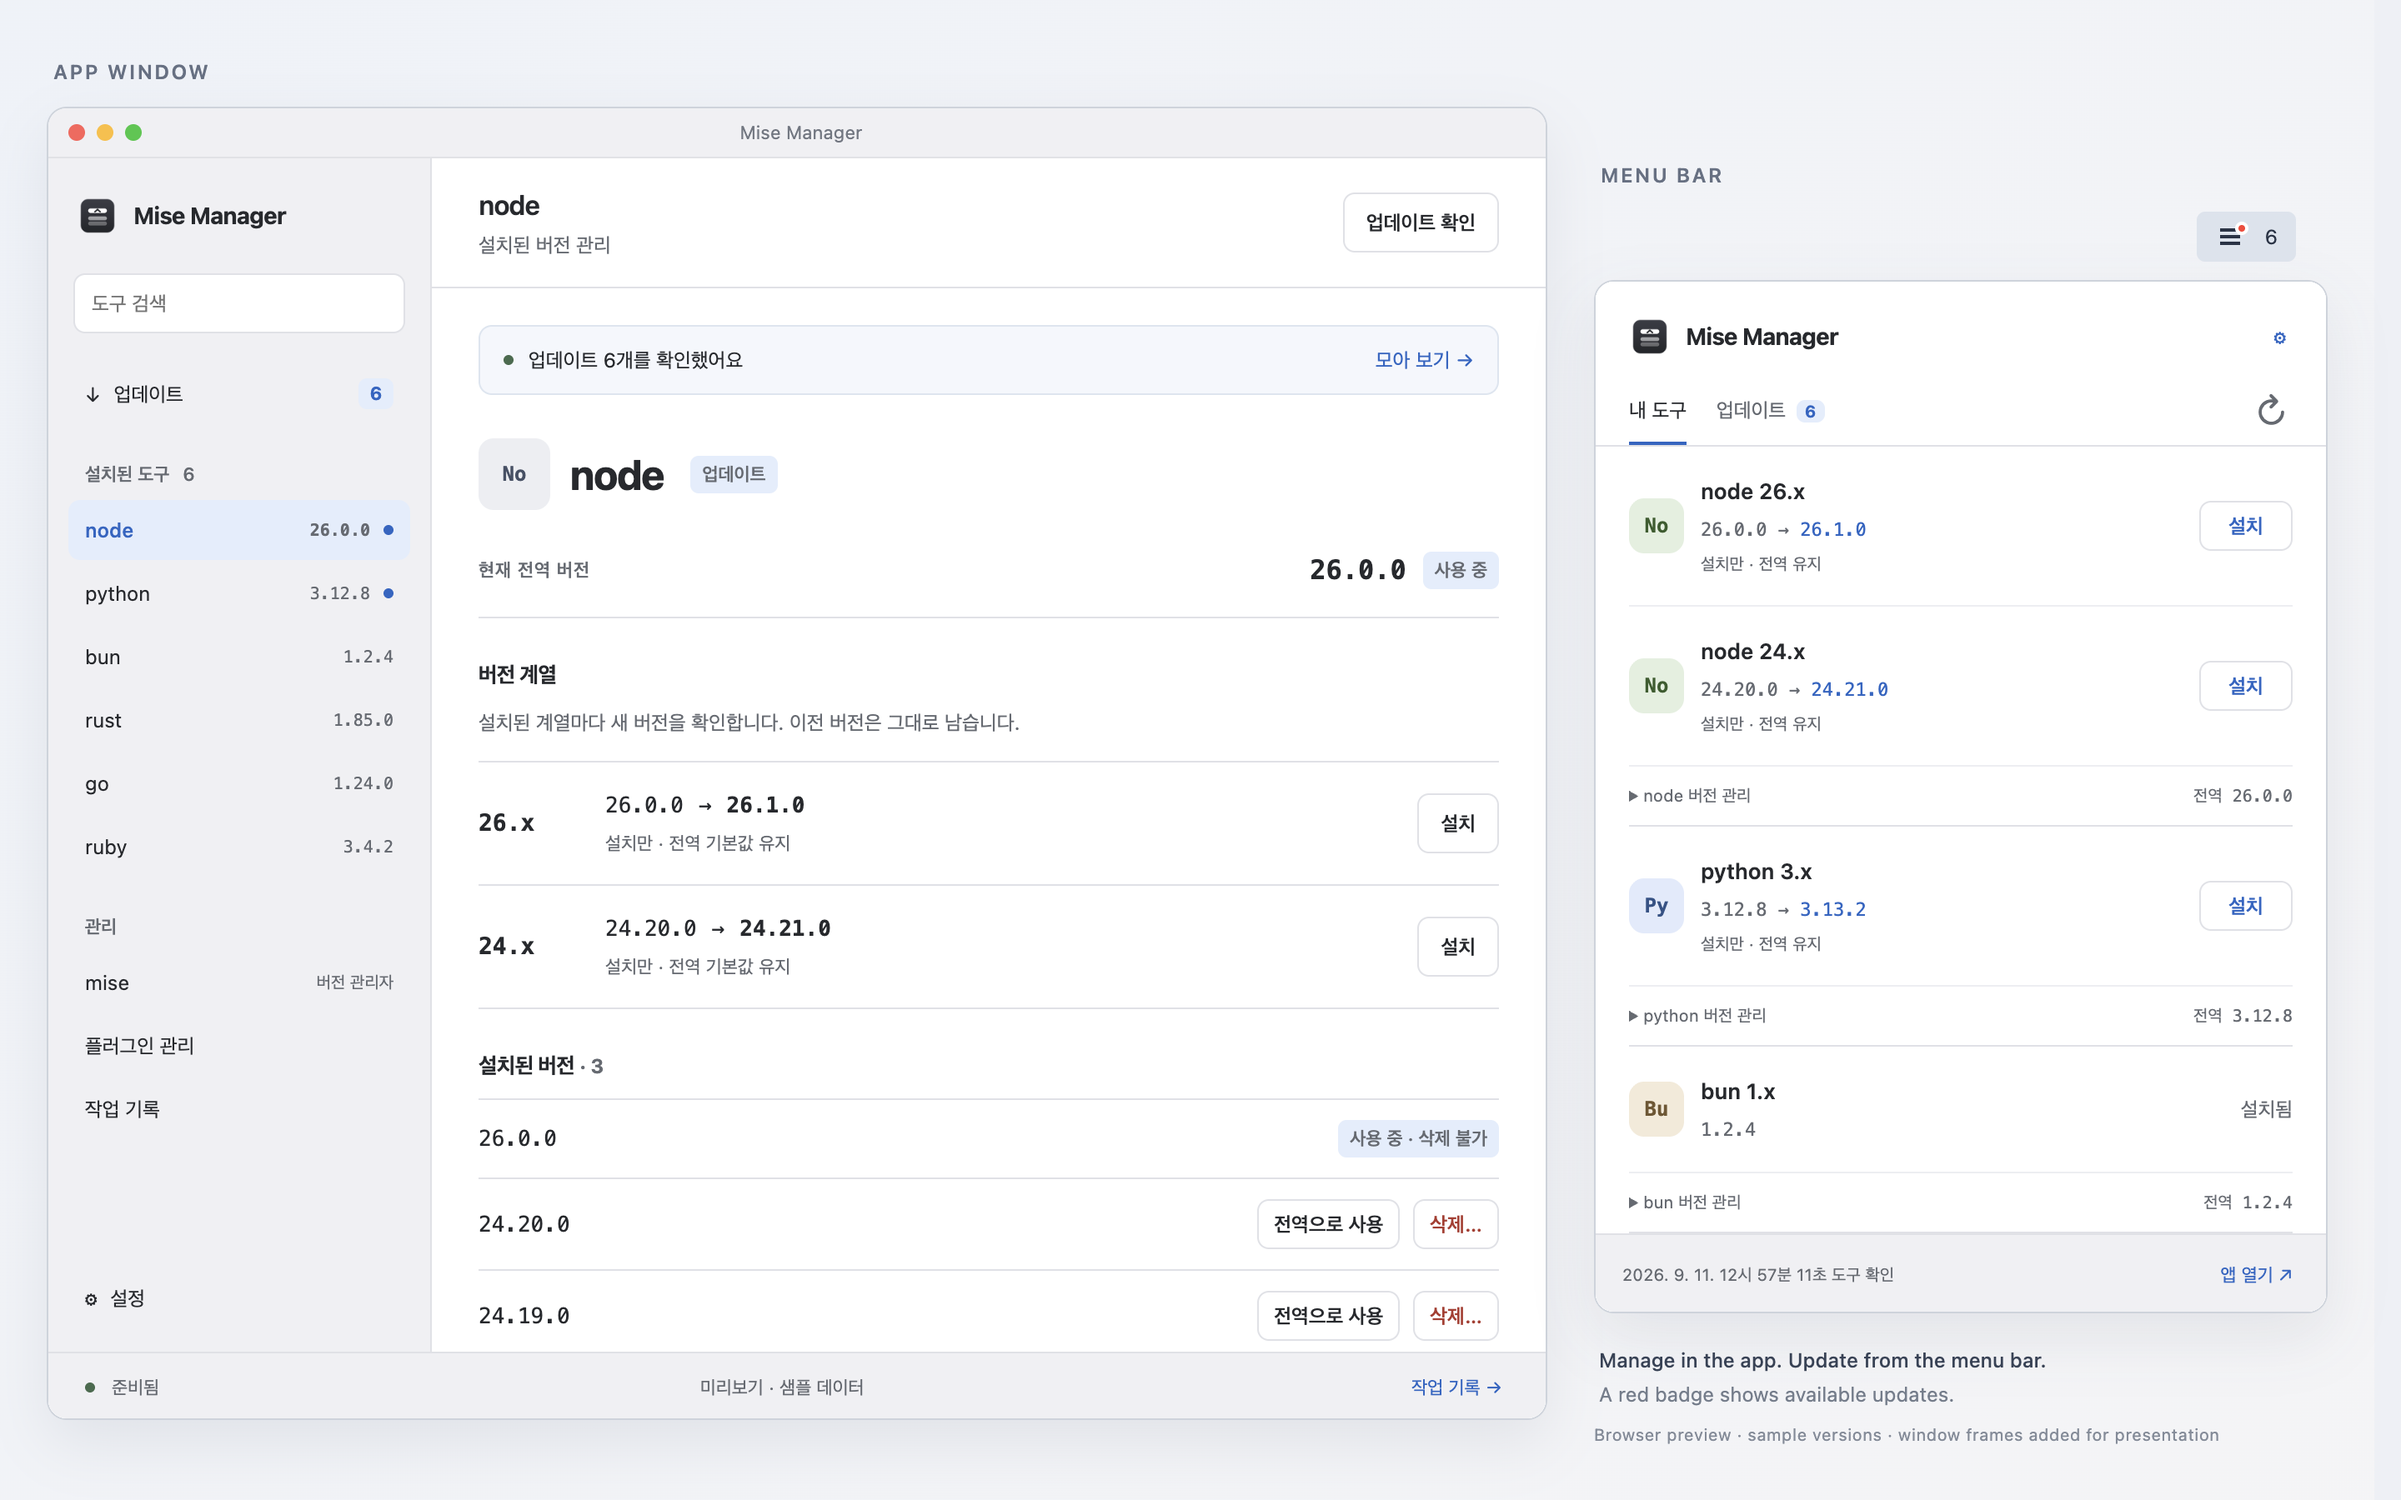
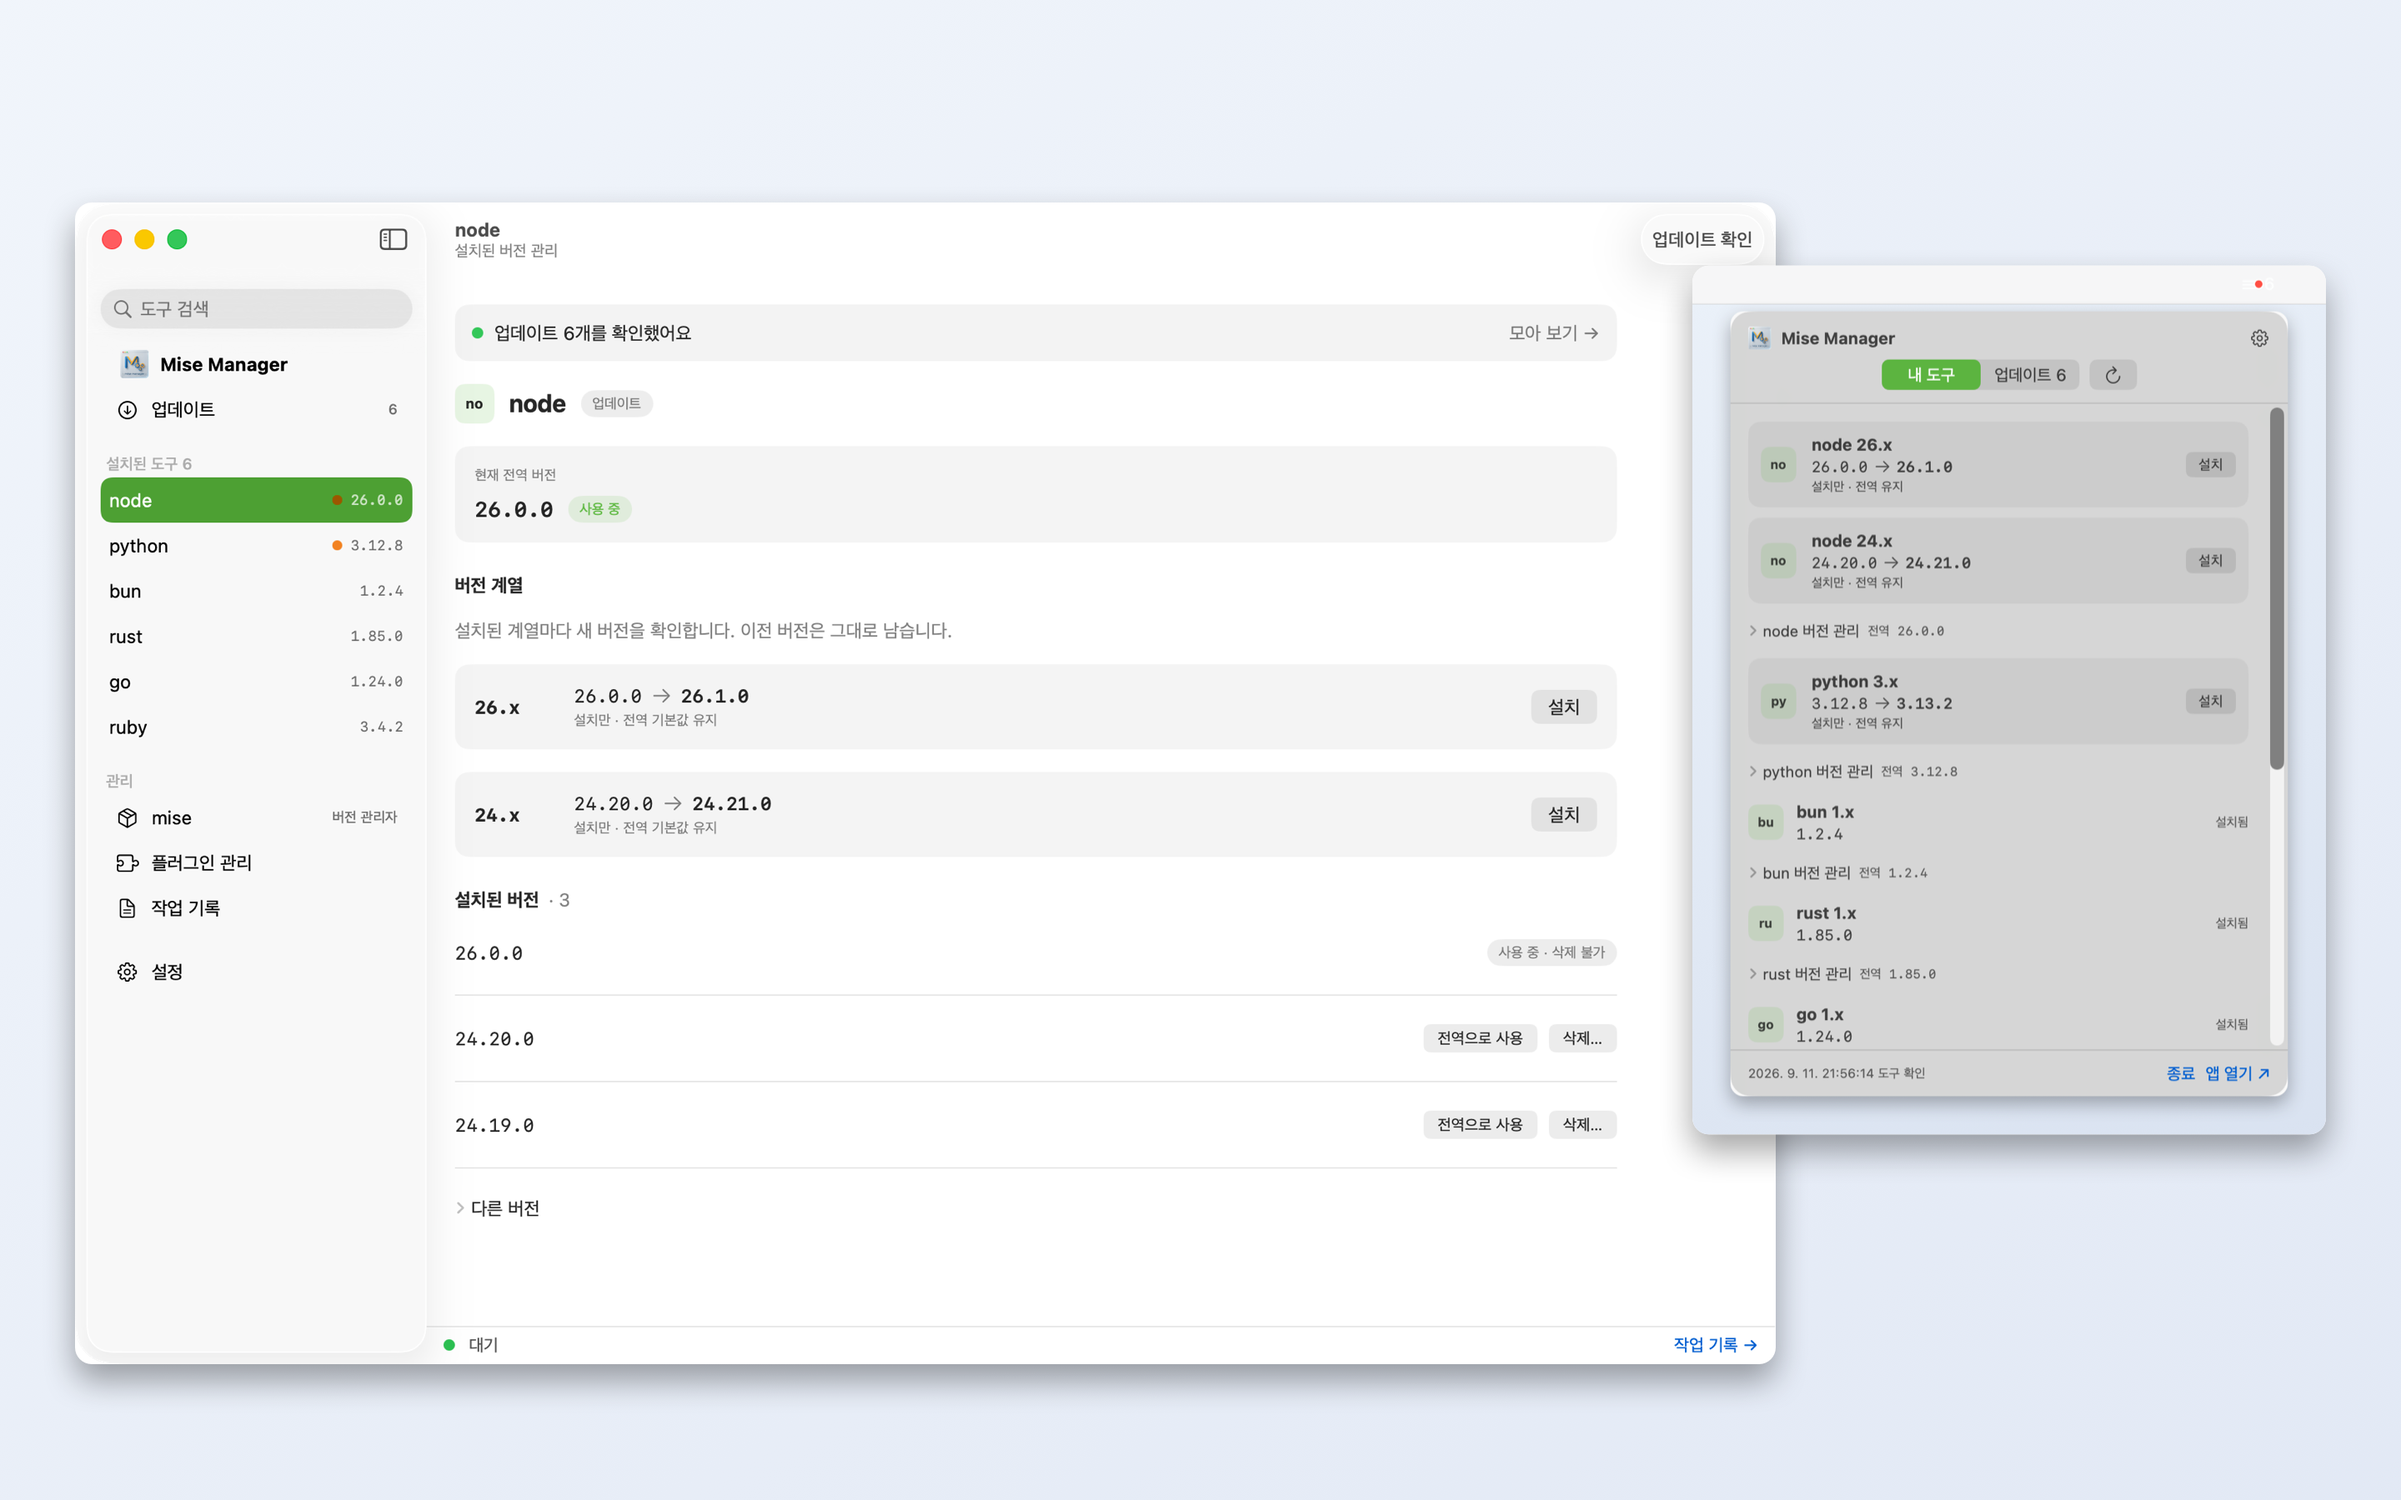
docs: screenshots of the native app; tray panel follows the theme setting
The menu-bar panel now applies the light/dark theme like the main
window. Debug hooks gain sample data, explicit panel placement and a
status-item render used to compose the README images.

diff --git a/MiseManager/App/DebugHooks.swift b/MiseManager/App/DebugHooks.swift
@@ -25,6 +25,12 @@ extension AppDelegate {
                 case "mise": state.pendingMiseUpdateConfirm = true
                 case "plugin": state.openCustomPluginDialog()
                 case "tray": state.showTray()
+                case "sample": self.loadSample()
+                case "trayMain":
+                    // Under the menu bar of the main display, near its right edge, whatever the cursor does.
+                    if let screen = NSScreen.main {
+                        self.statusItem?.show(cursor: CGPoint(x: screen.frame.maxX - 260, y: screen.frame.maxY - 5))
+                    }
                 case "close":
                     state.pendingMajorUpdate = nil; state.pendingDelete = nil
                     state.pendingMiseUpdateConfirm = false; state.closePluginUrlDialog()
@@ -36,6 +42,7 @@ extension AppDelegate {
                     case "render": self.render(state.activeTab, to: path)
                     case "trayrender": self.renderTray(to: path)
                     case "status": try? (self.statusItem?.debugDescription ?? "no controller").write(toFile: path, atomically: true, encoding: .utf8)
+                    case "statusitem": self.renderStatusItem(to: path)
                     default: self.snapshot(to: path)
                     }
                 }
@@ -53,6 +60,51 @@ extension AppDelegate {
         renderer.scale = 2
         guard let image = renderer.nsImage, let tiff = image.tiffRepresentation,
               let rep = NSBitmapImageRep(data: tiff) else { return }
+        try? rep.representation(using: .png, properties: [:])?.write(to: URL(fileURLWithPath: path))
+    }
+
+    /// Reproducible example state for README screenshots (same fixture the 0.1.x browser preview used).
+    private func loadSample() {
+        let now = AppState.nowLabel()
+        state.settings.theme = .light
+        state.miseVersion = "2026.8.12 macos-arm64"
+        state.miseLoaded = true
+        state.miseCurrentError = nil
+        state.miseLatestVersion = "v2026.8.13"
+        state.miseLatestLoaded = true
+        state.miseLatestError = nil
+        state.miseLatestCheckedAt = now
+        func row(_ name: String, _ global: String, _ installed: [String], _ byMajor: [String: String], _ same: String, _ release: String, _ overall: String?, _ checked: Int) -> PluginRow {
+            PluginRow(name: name, activeGlobalVersion: global, installedVersions: installed, latestByMajor: byMajor,
+                      sameMajorLatest: same, releaseLatest: release, overallLatest: overall, checkedVersions: checked, status: .done)
+        }
+        state.plugins = [
+            row("node", "26.0.0", ["26.0.0", "24.20.0", "24.19.0"], ["24": "24.21.0", "26": "26.1.0"], "26.1.0", "26.1.0", "27.0.0-rc.1", 860),
+            row("python", "3.12.8", ["3.12.8", "3.11.11"], ["3": "3.13.2"], "3.13.2", "3.13.2", nil, 248),
+            row("bun", "1.2.4", ["1.2.4"], ["1": "1.2.4"], "1.2.4", "1.2.4", nil, 214),
+            row("rust", "1.85.0", ["1.85.0"], ["1": "1.85.0"], "1.85.0", "1.85.0", nil, 152),
+            row("go", "1.24.0", ["1.24.0"], ["1": "1.24.0"], "1.24.0", "1.24.0", nil, 130),
+            row("ruby", "3.4.2", ["3.4.2"], ["3": "3.4.2"], "3.4.2", "3.4.2", nil, 133),
+        ]
+        state.toolsLoaded = true
+        state.toolsCheckedAt = now
+        state.toolsError = nil
+        state.outdatedPluginNames = ["flutter", "zoxide"]
+        state.pluginUpdatesCheckedAt = now
+        state.pluginUpdatesError = nil
+        state.selectedToolName = "node"
+        state.activeTab = .updater
+        if let window = NSApp.windows.first(where: { !($0 is NSPanel) && $0.contentView != nil && $0.isVisible }), let screen = NSScreen.main {
+            let size = CGSize(width: 1200, height: 820)
+            let origin = CGPoint(x: screen.visibleFrame.midX - size.width / 2, y: screen.visibleFrame.midY - size.height / 2)
+            window.setFrame(CGRect(origin: origin, size: size), display: true)
+        }
+    }
+
+    /// The status bar button (icon, count, badge) on a transparent background.
+    private func renderStatusItem(to path: String) {
+        guard let button = statusItem?.button, let rep = button.bitmapImageRepForCachingDisplay(in: button.bounds) else { return }
+        button.cacheDisplay(in: button.bounds, to: rep)
         try? rep.representation(using: .png, properties: [:])?.write(to: URL(fileURLWithPath: path))
     }
 

diff --git a/MiseManager/MenuBar/StatusItemController.swift b/MiseManager/MenuBar/StatusItemController.swift
@@ -33,6 +33,11 @@ final class StatusItemController {
             panel.close()
             return
         }
+        panel.appearance = switch state.settings.theme {
+        case .system: nil
+        case .light: NSAppearance(named: .aqua)
+        case .dark: NSAppearance(named: .darkAqua)
+        }
         let item = self.item ?? makeItem()
         guard let button = item.button else { return }
         let summary = state.updateSummary
@@ -61,9 +66,9 @@ final class StatusItemController {
         if panel.isVisible { panel.close() } else { show() }
     }
 
-    func show() {
+    /// `cursor` picks the display (the clicked one); tests and debug hooks can pass a point.
+    func show(cursor: CGPoint = NSEvent.mouseLocation) {
         guard state.settings.showMenuBarIcon else { return }
-        let cursor = NSEvent.mouseLocation
         guard let screen = NSScreen.screens.first(where: { $0.frame.contains(cursor) }) ?? NSApp.keyWindow?.screen ?? NSScreen.main else { return }
         let icon = item?.button.flatMap { button -> CGPoint? in
             guard let window = button.window else { return nil }
@@ -77,9 +82,15 @@ final class StatusItemController {
 
     func hide() { panel.close() }
 
+    var button: NSStatusBarButton? { item?.button }
+
     var debugDescription: String {
         guard let button = item?.button else { return "status item: hidden" }
         let badge = button.subviews.compactMap { $0 as? BadgeView }.first
-        return "status item: visible title='\(button.title)' tooltip='\(button.toolTip ?? "")' badge=\(badge.map { $0.isHidden ? "hidden" : "shown" } ?? "none") panel=\(panel.isVisible)"
+        // Frames in CG (top-left origin) coordinates so `screencapture -R` can crop them.
+        let primaryHeight = NSScreen.screens.first?.frame.height ?? 0
+        func cg(_ rect: CGRect) -> String { "\(Int(rect.minX)),\(Int(primaryHeight - rect.maxY)),\(Int(rect.width)),\(Int(rect.height))" }
+        let itemFrame = button.window.map { cg($0.frame) } ?? "-"
+        return "status item: visible title='\(button.title)' tooltip='\(button.toolTip ?? "")' badge=\(badge.map { $0.isHidden ? "hidden" : "shown" } ?? "none") panel=\(panel.isVisible) itemFrame=\(itemFrame) panelFrame=\(cg(panel.frame)) windowId=\(panel.windowNumber)"
     }
 }

diff --git a/README.md b/README.md
@@ -20,7 +20,7 @@ Version 0.2.0 replaced the Tauri/Svelte app with SwiftUI and AppKit. The last Ta
 
 View full size: [App window](./docs/images/mise-manager-app.png) · [Menu-bar icon and panel](./docs/images/mise-manager-menu-bar.png)
 
-The screenshots show the 0.1.x web UI with sample data; the native app keeps the same layout and wording.
+Captured from the native app (light theme) with sample data. The menu-bar strip is arranged for presentation.
 
 ## Features
 

diff --git a/README.ko.md b/README.ko.md
@@ -20,7 +20,7 @@
 
 원본 크기로 보기: [앱 창](./docs/images/mise-manager-app.png) · [메뉴바 아이콘과 화면](./docs/images/mise-manager-menu-bar.png)
 
-스크린샷은 0.1.x 웹 UI를 샘플 데이터로 찍은 것이며, 네이티브 앱도 같은 구성과 문구를 씁니다.
+네이티브 앱(라이트 테마)을 샘플 데이터로 찍었습니다. 메뉴바 부분은 소개용으로 배치했습니다.
 
 ## 주요 기능
 
